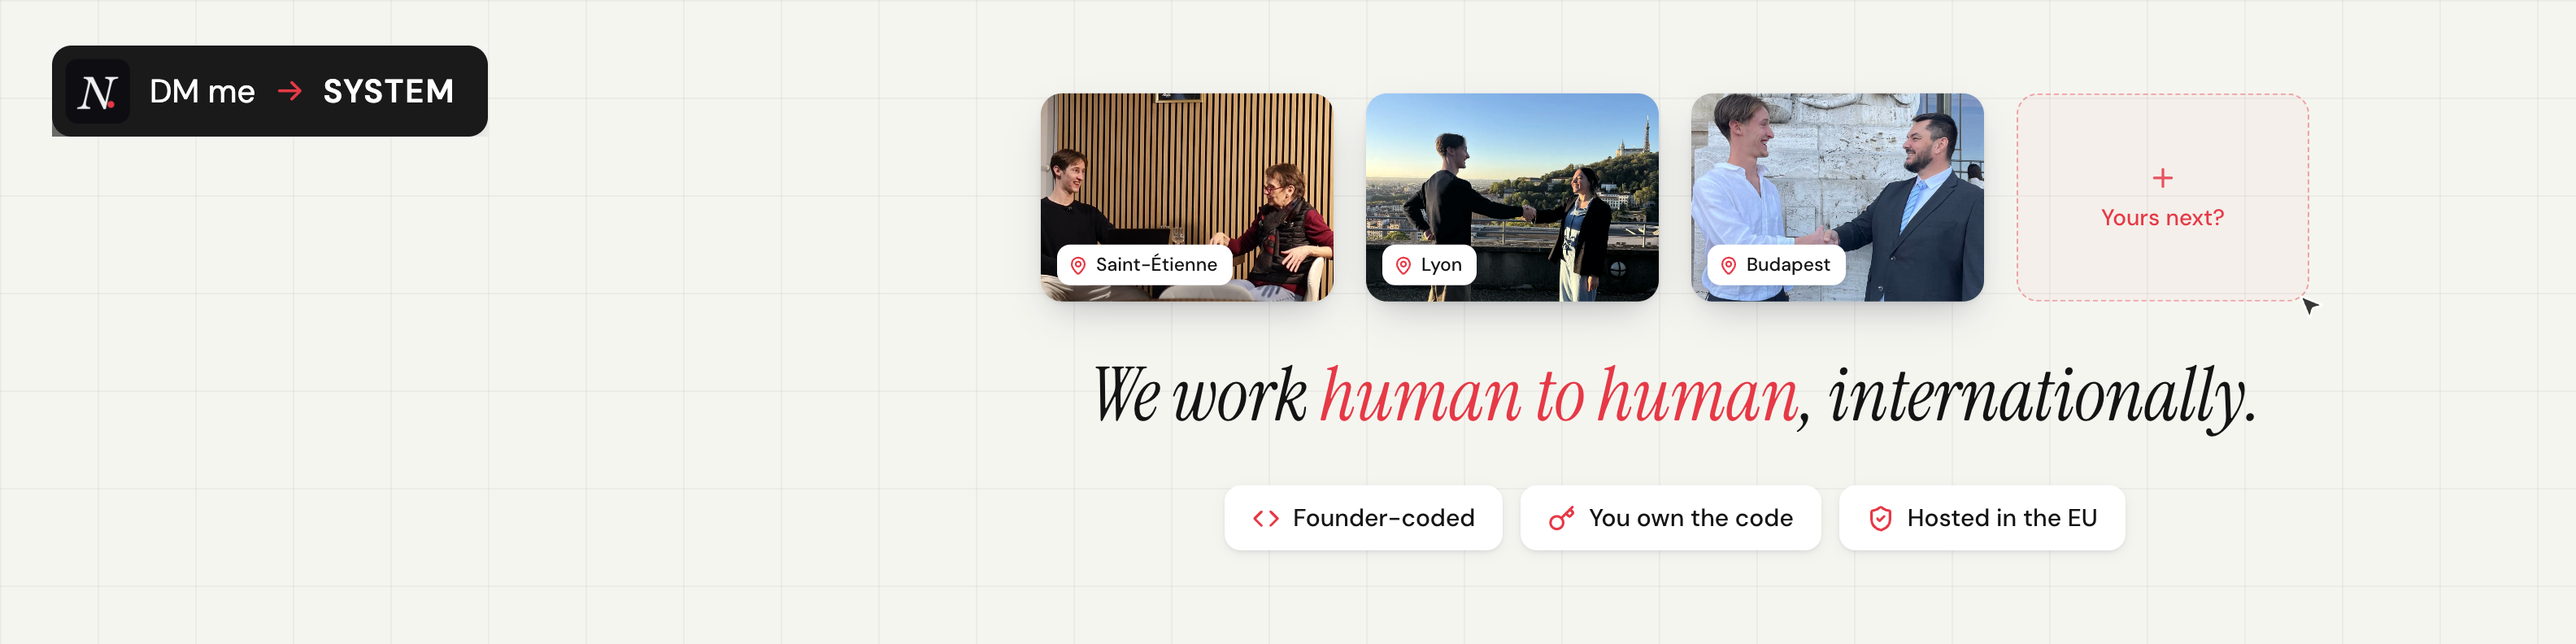
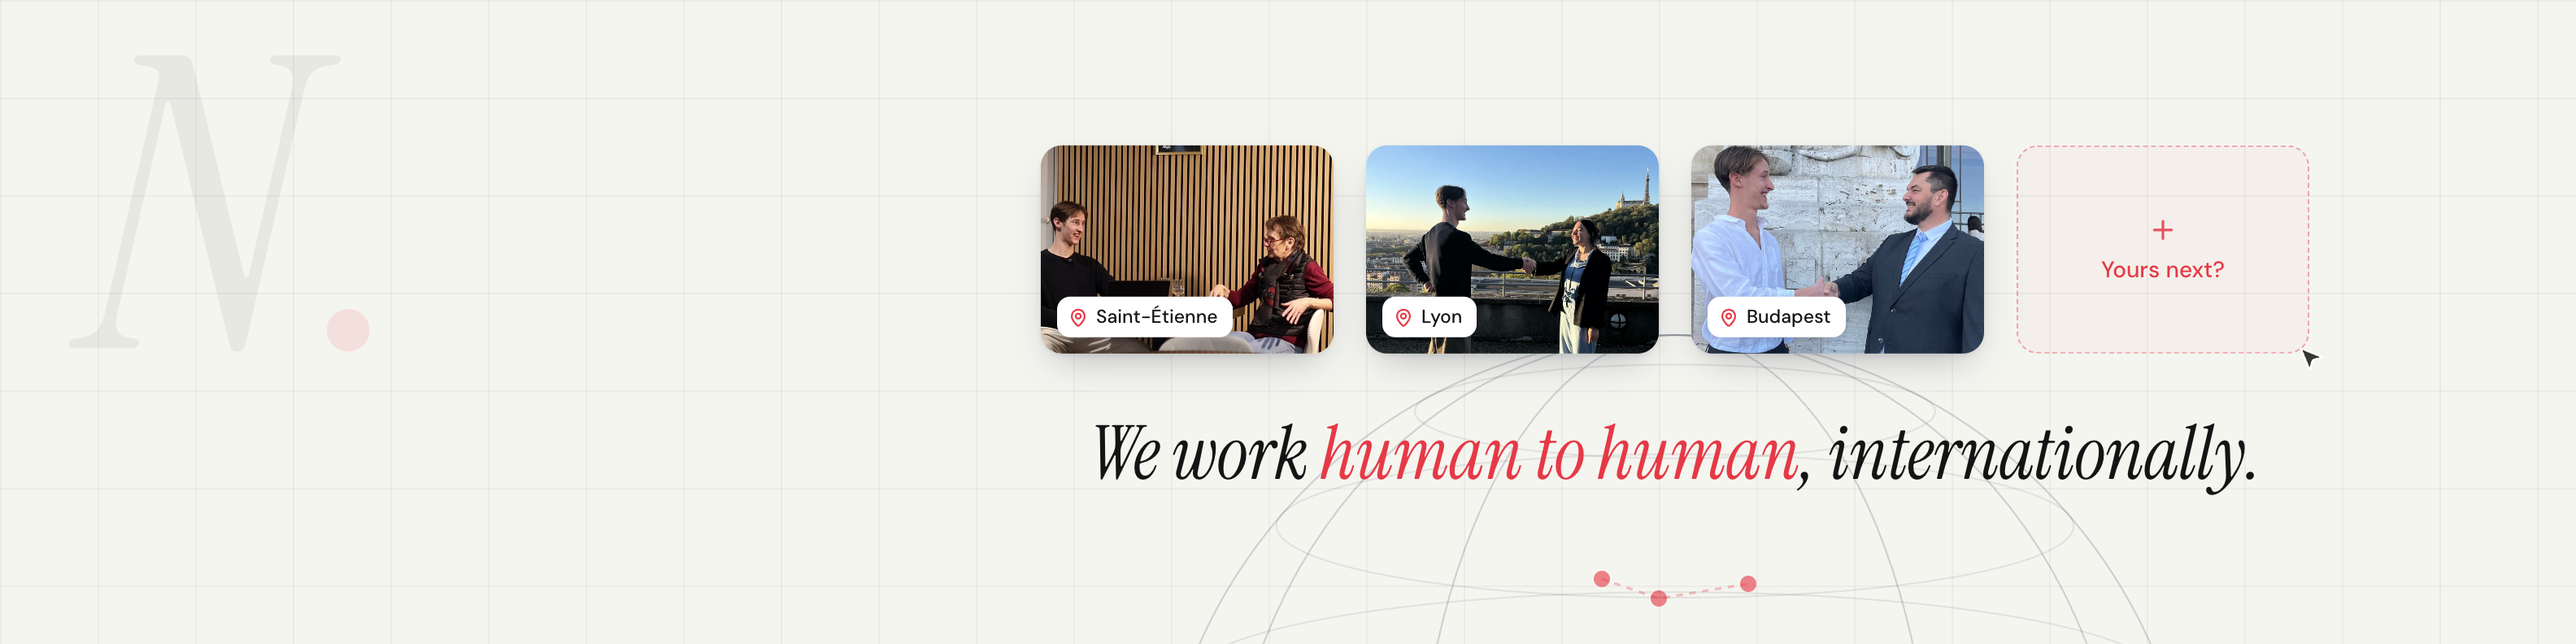
Le N passe dans le papier, un globe s'installe derrière
Trois changements demandés : les puces du bas sautent, la pastille noire
« DM me → SYSTEM » aussi, et le N du logo la remplace en filigrane dans
le fond, à 6 % d'encre, le point rouge à 11 %. Il ne se lit plus comme
une signature posée dessus mais comme une marque imprimée dans le papier.

Le globe porte « internationally » maintenant que les puces sont parties.
Il est construit, pas dessiné : projection orthographique, un parallèle à
la latitude p devient une ellipse horizontale centrée en y = C - R sin(p)
et large de R cos(p), un méridien à l'angle a une ellipse verticale large
de R |cos(a)|. Sept parallèles, six méridiens, inclinaison d'axe à 18 %.

Trois points rouges posés dessus avec un trait pointillé entre eux : les
trois villes sont toutes en Europe, donc elles se touchent presque, et
c'est le seul commentaire. Ils ont été descendus une fois, ils tombaient
sur la ligne de base du titre.

diff --git a/linkedin-banner-humain.html b/linkedin-banner-humain.html
@@ -11,44 +11,30 @@
      BANNIERE LINKEDIN N.2 — 1584 x 396. Celle de la maison.
      La n.1, celle des ecoles, ne bouge pas.
 
-     ⚠ D'OU VIENT CETTE VERSION. Nathan a envoye des captures des
-     bannieres de Melyo en disant « inspire-toi ». La version precedente
-     ne s'en etait pas servie : elle avait pris des ombres douces et des
-     coins arrondis, puis reskinne une mise en page qui n'avait rien a
-     voir. Il l'a vu et l'a dit. Ce qui a ete relu chez eux, et repris :
+     TROIS CHANGEMENTS DEMANDES PAR NATHAN SUR LA VERSION PRECEDENTE :
+       1. Les trois puces du bas sautent.
+       2. La pastille noire « DM me -> SYSTEM » saute aussi. A sa place,
+          le N du logo, EN FILIGRANE DANS LE FOND. Il ne se lit pas comme
+          une signature posee dessus mais comme une marque imprimee dans
+          le papier : Instrument Serif italique, 6 % d'encre, le point
+          rouge a 11 %.
+       3. Un globe en fil de fer dans le fond, sous les photos. C'est lui
+          qui porte « internationally » maintenant que les puces sont
+          parties.
 
-       1. LA STRUCTURE EST VERTICALE ET REMPLIT LE CADRE : une bande de
-          preuve en haut, un titre au milieu, une rangee de puces en bas.
-          Jamais un bloc qui flotte au centre avec du vide autour. C'est
-          aussi, exactement, la structure de la banniere 1 : pastille de
-          confiance / titre / puces. Les deux demandes de Nathan,
-          « inspire-toi de Melyo » et « que ca feat avec la premiere »,
-          tombent donc au meme endroit.
-       2. LA PREUVE EST VISUELLE ET VIENT EN PREMIER. Chez eux, une pile
-          de visages avec une note. Ici les trois rencontres, et elles
-          montent EN HAUT, la ou la banniere 1 met ses logos.
-       3. LE TITRE MELANGE DEUX VOIX sur les mots qui portent. La
-          banniere 1 fait deja ca avec son rouge. On garde.
-       4. LES PUCES A ICONE COLOREE en bas. Celles de la banniere 1
-          disent des benefices, celles-ci disent la facon de travailler.
-          Meme objet, contenu different.
-       5. LE CURSEUR pose sur l'element cliquable, leur signature sur
-          chaque carte. Ici il designe « Yours next? », donc
-          l'invitation, et il apporte la profondeur qui manquait.
+     LE GLOBE EST CONSTRUIT, PAS DESSINE A LA MAIN. Projection
+     orthographique : un parallele a la latitude p devient une ellipse
+     horizontale centree en y = C - R sin(p), de demi-largeur R cos(p) ;
+     un meridien a l'angle a devient une ellipse verticale de
+     demi-largeur R |cos(a)|. Sept paralleles, six meridiens. Le ry des
+     paralleles vient de l'inclinaison de l'axe, 18 %.
 
-     ⚠ CE QUI N'EST PAS REPRIS CHEZ EUX, ET POURQUOI. Leur pile de
-     visages s'accompagne toujours d'une note et d'un volume : « +102
-     Fondateurs, Note 5/5 », « +150 equipes B2B », « +200 utilisateurs ».
-     NateSystem n'a ni note publique ni volume de ce genre, et
-     l'eliminateur n.1 des garde-fous interdit d'en inventer un. La
-     preuve reste qualitative : trois rencontres reelles, nommees par
-     leur ville. Rien n'est chiffre.
-
-     ⚠ LES PIECES SONT DECOUPEES DANS LA BANNIERE 1, pas imitees.
-     Pastille noire : 536x112 prise en (64,56) de
-     linkedin-banner-ecoles-live@2x.png, reposee en (32,28) a 268x56.
-     Tuile de fond : 120x120 prise en (2880,600). Meme papier, meme
-     grille tous les 60 points.
+     CE QUI VIENT DE MELYO, et qui reste : la structure verticale qui
+     remplit le cadre, la preuve visuelle en premier, le curseur pose sur
+     l'element cliquable. Ce qui n'en vient pas : leur pile de visages
+     s'accompagne toujours d'une note et d'un volume, « +102 Fondateurs,
+     Note 5/5 ». NateSystem n'a ni l'un ni l'autre et l'eliminateur n.1
+     interdit d'en inventer un. La preuve reste qualitative.
 
      ⚠ LE MOT « AGENCY » NE SERA JAMAIS ECRIT. Nathan l'a demande deux
      fois. Eliminateur n.3 de knowledge/voix/garde-fous-publication.md,
@@ -56,13 +42,12 @@
      des metriques de resultat commercial, ce que l'eliminateur n.2
      interdit de promettre. L'idee est gardee, le mot saute.
 
-     ⚠ LES TROIS PUCES DU BAS SONT DES FAITS VERIFIABLES, pas des
-     arguments : « founder-coded » et « you own the code » sont les
-     differenciateurs de ~/.claude/CLAUDE.md, « hosted in the EU » est
-     deja la formulation du site, sept occurrences.
+     ⚠ LA TUILE DE FOND EST DECOUPEE DANS LA BANNIERE 1, pas imitee :
+     120x120 prise en (2880,600) de linkedin-banner-ecoles-live@2x.png.
+     Meme papier, meme grille tous les 60 points.
 
      GEOMETRIE : la photo de profil couvre x 47 -> 367 et les 190
-     derniers pixels. Tout le contenu vit a droite de 600.
+     derniers pixels.
      ──────────────────────────────────────────────────────────────────── */
 
   :root { --accent: #e63946; --text: #141414; }
@@ -73,13 +58,22 @@
   .cover { position: relative; width: 1584px; height: 396px; overflow: hidden;
[1 lines of base64/hex data omitted]
 
-  .badge { position: absolute; left: 32px; top: 28px; width: 268px; height: 56px; display: block; }
+  /* Le N, imprime dans le papier. */
+  .watermark { position: absolute; left: 52px; top: 4px;
+               font-family: 'Instrument Serif', Georgia, serif; font-style: italic;
+               font-size: 250px; line-height: 1; color: rgba(20,20,20,0.060);
+               user-select: none; }
+  .watermark i { font-style: normal; color: rgba(230,57,70,0.11); }
 
-  /* La colonne centrale, calee sur celle de la banniere 1 : x = 1030. */
+  /* Le globe, derriere tout, centre sous les photos. */
+  .globe { position: absolute; left: 1030px; top: 196px;
+           width: 660px; height: 660px; transform: translateX(-50%);
+           color: rgba(15,23,42,0.085); }
+
   .stack { position: absolute; left: 1030px; top: 50%; transform: translate(-50%, -50%);
            display: flex; flex-direction: column; align-items: center; }
 
-  /* 1. La preuve, en haut. */
+  /* La preuve, en haut. */
   .shots { display: flex; gap: 20px; }
   .card { position: relative; width: 180px; height: 128px; border-radius: 13px; }
   .card img { width: 100%; height: 100%; object-fit: cover; display: block; border-radius: 13px;
@@ -96,28 +90,20 @@
                display: flex; flex-direction: column; align-items: center; justify-content: center; gap: 6px; }
   .card.vide > svg { width: 18px; height: 18px; color: var(--accent); opacity: .85; }
   .card.vide span { font-size: 14px; font-weight: 500; color: var(--accent); }
-  /* Le curseur, pose sur l'invitation. Il deborde, c'est voulu : c'est
-     ce debord qui donne la profondeur. */
+  /* Le curseur deborde de la carte, et c'est ce debord qui donne la
+     profondeur. */
   .cur { position: absolute; right: -11px; bottom: -13px; width: 30px; height: 30px; }
 
-  /* 2. Le titre, au milieu. */
   h1 { font-family: 'Instrument Serif', Georgia, serif; font-style: italic; font-weight: 400;
        font-size: 46px; line-height: 1.2; color: var(--text); letter-spacing: -0.2px;
-       white-space: nowrap; margin: 30px 0 28px; }
+       white-space: nowrap; margin: 34px 0 0; }
   h1 .accent { color: var(--accent); }
-
-  /* 3. Les puces, en bas. */
-  .chips { display: flex; gap: 11px; }
-  .chip { display: inline-flex; align-items: center; gap: 8px;
-          background: #fff; border-radius: 10px; padding: 10px 17px;
-          font-size: 15px; font-weight: 500; color: var(--text); white-space: nowrap;
-          box-shadow: 0 2px 8px -2px rgba(15,23,42,.13), 0 1px 2px rgba(15,23,42,.05); }
-  .chip svg { width: 17px; height: 17px; color: var(--accent); flex: 0 0 17px; }
 </style>
 </head>
 <body>
   <div class="cover">
[1 lines of base64/hex data omitted]
+    <div class="watermark">N<i>.</i></div>
+    <svg class="globe" viewBox="0 0 660 660" fill="none" stroke="currentColor" stroke-width="1.1"><polyline points="285,160 320,172 375,163" stroke="rgba(230,57,70,.30)" stroke-width="1.6" stroke-dasharray="4 4" /><circle cx="285" cy="160" r="5" fill="rgba(230,57,70,.62)" stroke="none" /><circle cx="320" cy="172" r="5" fill="rgba(230,57,70,.62)" stroke="none" /><circle cx="375" cy="163" r="5" fill="rgba(230,57,70,.62)" stroke="none" /><circle cx="330" cy="330" r="320" /><ellipse cx="330" cy="603.0" rx="160.0" ry="28.8" /><ellipse cx="330" cy="532.6" rx="245.1" ry="44.1" /><ellipse cx="330" cy="437.8" rx="300.7" ry="54.1" /><ellipse cx="330" cy="330.0" rx="320.0" ry="57.6" /><ellipse cx="330" cy="222.2" rx="300.7" ry="54.1" /><ellipse cx="330" cy="127.4" rx="245.1" ry="44.1" /><ellipse cx="330" cy="57.0" rx="160.0" ry="28.8" /><ellipse cx="330" cy="330" rx="320.0" ry="320" /><ellipse cx="330" cy="330" rx="277.1" ry="320" /><ellipse cx="330" cy="330" rx="160.0" ry="320" /><ellipse cx="330" cy="330" rx="160.0" ry="320" /><ellipse cx="330" cy="330" rx="277.1" ry="320" /></svg>
 
     <div class="stack">
       <!-- ⚠ LES PUCES NOMMENT LA VILLE, JAMAIS LA PERSONNE. Zoltan et
@@ -133,12 +119,6 @@
       </div>
 
       <h1>We work <span class="accent">human to human</span>, internationally.</h1>
-
-      <div class="chips">
-        <span class="chip"><svg viewBox="0 0 24 24" fill="none" stroke="currentColor" stroke-width="2.2" stroke-linecap="round" stroke-linejoin="round"><polyline points="16 18 22 12 16 6"/><polyline points="8 6 2 12 8 18"/></svg>Founder-coded</span>
-        <span class="chip"><svg viewBox="0 0 24 24" fill="none" stroke="currentColor" stroke-width="2.2" stroke-linecap="round" stroke-linejoin="round"><path d="m15.5 7.5 2.3 2.3a1 1 0 0 0 1.4 0l2.1-2.1a1 1 0 0 0 0-1.4L19 4"/><path d="m21 2-9.6 9.6"/><circle cx="7.5" cy="15.5" r="5.5"/></svg>You own the code</span>
-        <span class="chip"><svg viewBox="0 0 24 24" fill="none" stroke="currentColor" stroke-width="2.2" stroke-linecap="round" stroke-linejoin="round"><path d="M20 13c0 5-3.5 7.5-7.66 8.95a1 1 0 0 1-.67-.01C7.5 20.5 4 18 4 13V6a1 1 0 0 1 1-1c2 0 4.5-1.2 6.24-2.72a1.17 1.17 0 0 1 1.52 0C14.51 3.81 17 5 19 5a1 1 0 0 1 1 1z"/><path d="m9 12 2 2 4-4"/></svg>Hosted in the EU</span>
-      </div>
     </div>
   </div>
 </body>
